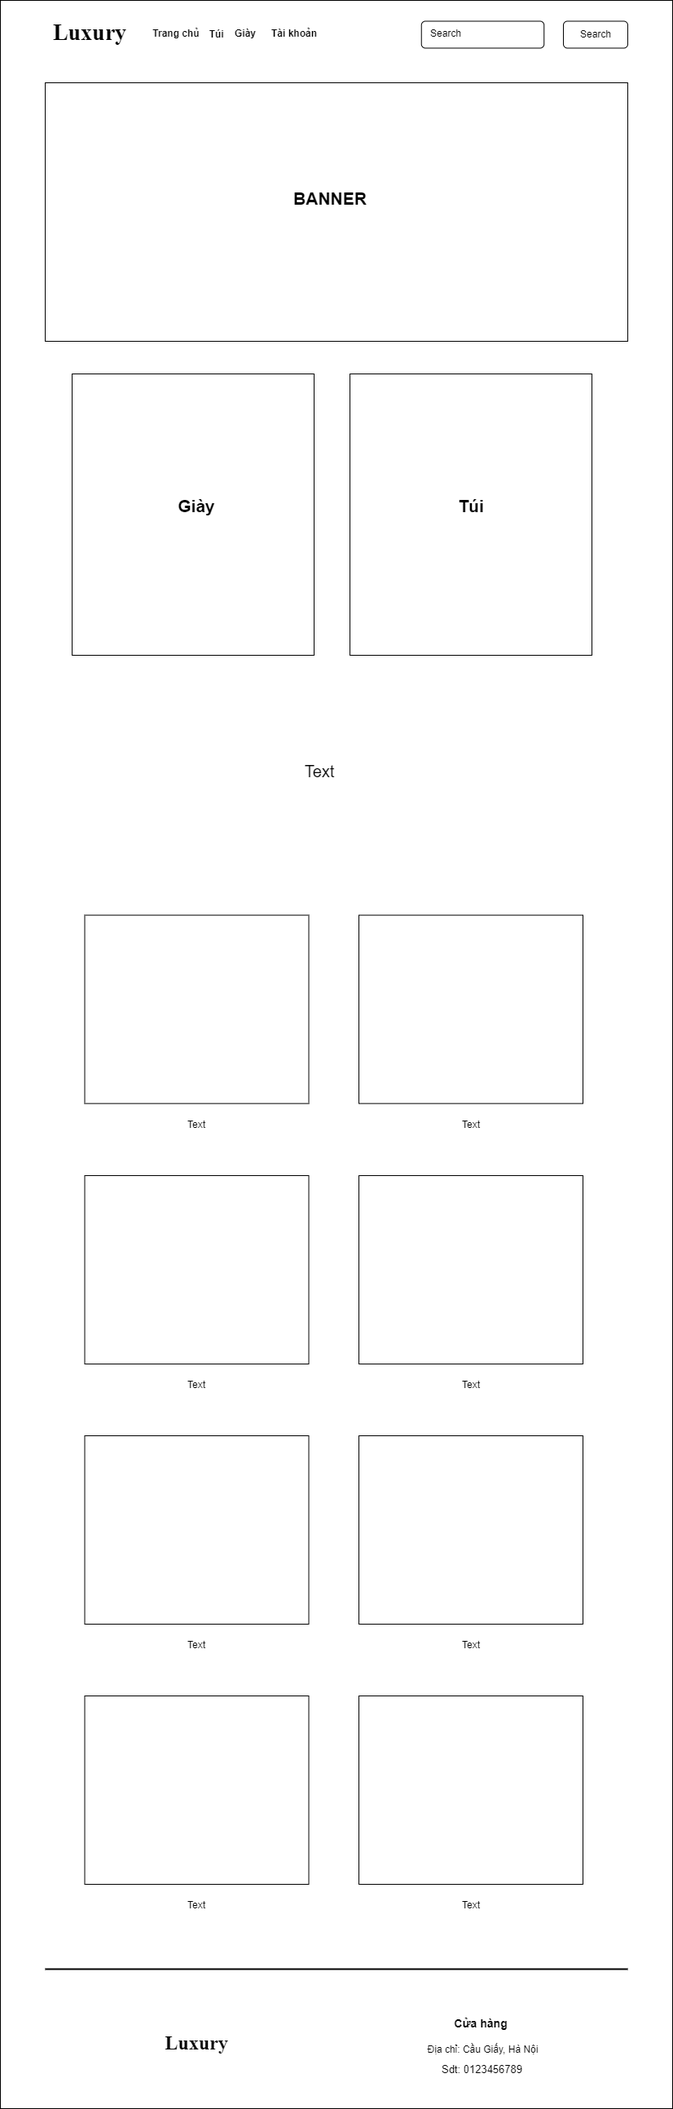
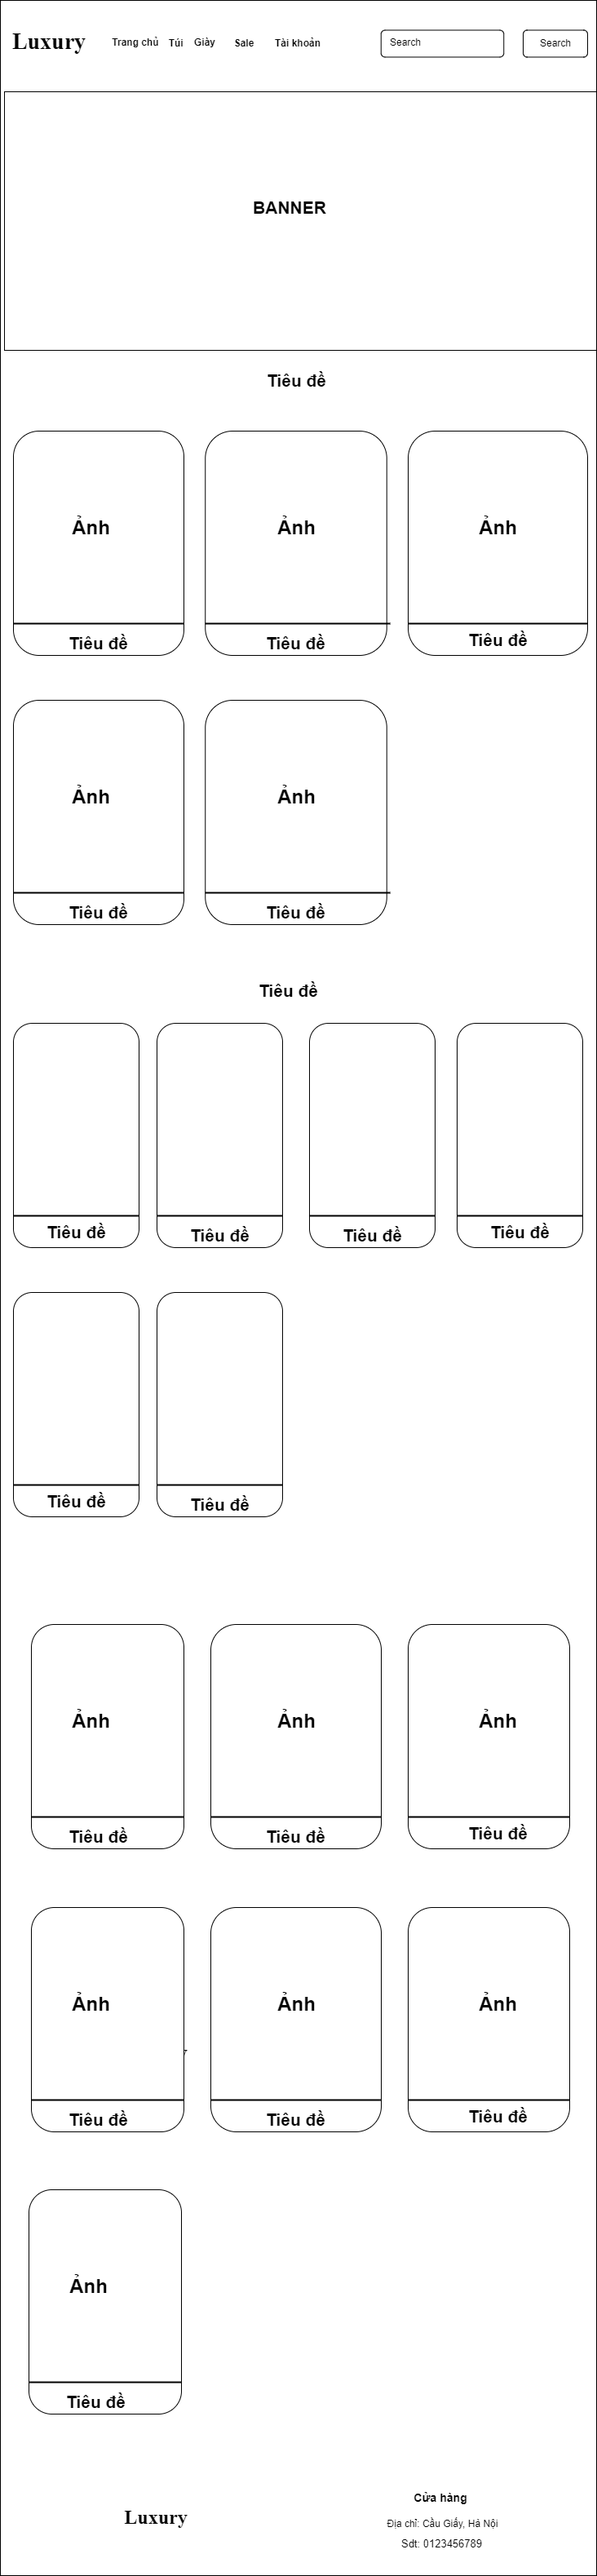
layout

diff --git a/ASM/News.html b/ASM/News.html
@@ -140,7 +140,7 @@ grid-column: 2/3;
 <div class=" hang " style="text-align: center; ">
     <h2 class="p-5">BRANDS AND PICKS</h2></div>
     <div class="container-fluid">
-    <div class="row row-cols-1 row-cols-md-4 row-cols-sm-1 g-4 ">
+    <div class="row row-cols-1 row-cols-md-4 row-cols-sm-2 g-4 ">
         <div class="col ">
             <div class="card ">
                 <img
@@ -191,7 +191,7 @@ grid-column: 2/3;
         <h2 class="p-5"style="text-align: center; "> NEW ITEM</h2>
     </div>
     <div class="container-fluid"> 
-<div class=" row row-cols-1   row-cols-md-4  row-cols-sm-1 g-4 ">
+<div class=" row row-cols-1   row-cols-md-4  row-cols-sm-2 g-4 ">
     <div class="col  ">
      <div class="card h-100">
        <img src="https://static.zara.net/photos///2023/V/1/1/p/6214/110/400/2/w/453/6214110400_15_1_1.jpg?ts=1679303329559" class="card-img-top" alt="...">

diff --git a/ASM/Sale.html b/ASM/Sale.html
@@ -137,7 +137,7 @@ grid-column: 2/3;
     </div>
     <!--Sale-->
     <div class="container-fluid mt-5">
-        <div class=" row row-cols-1 row-cols-md-4 row-cols-sm-1 g-4 ">
+        <div class=" row row-cols-1 row-cols-md-4 row-cols-sm-2 g-4 ">
             <div class="col ">
                 <div class="card h-100">
                     <img

diff --git a/ASM/Trangchu.html b/ASM/Trangchu.html
@@ -7,7 +7,7 @@
     <title>Trang chủ</title>
     <style>
           .o{
-        height: 350px;
+        height: 550px;
     }
     .footer{ 
    display: grid;
